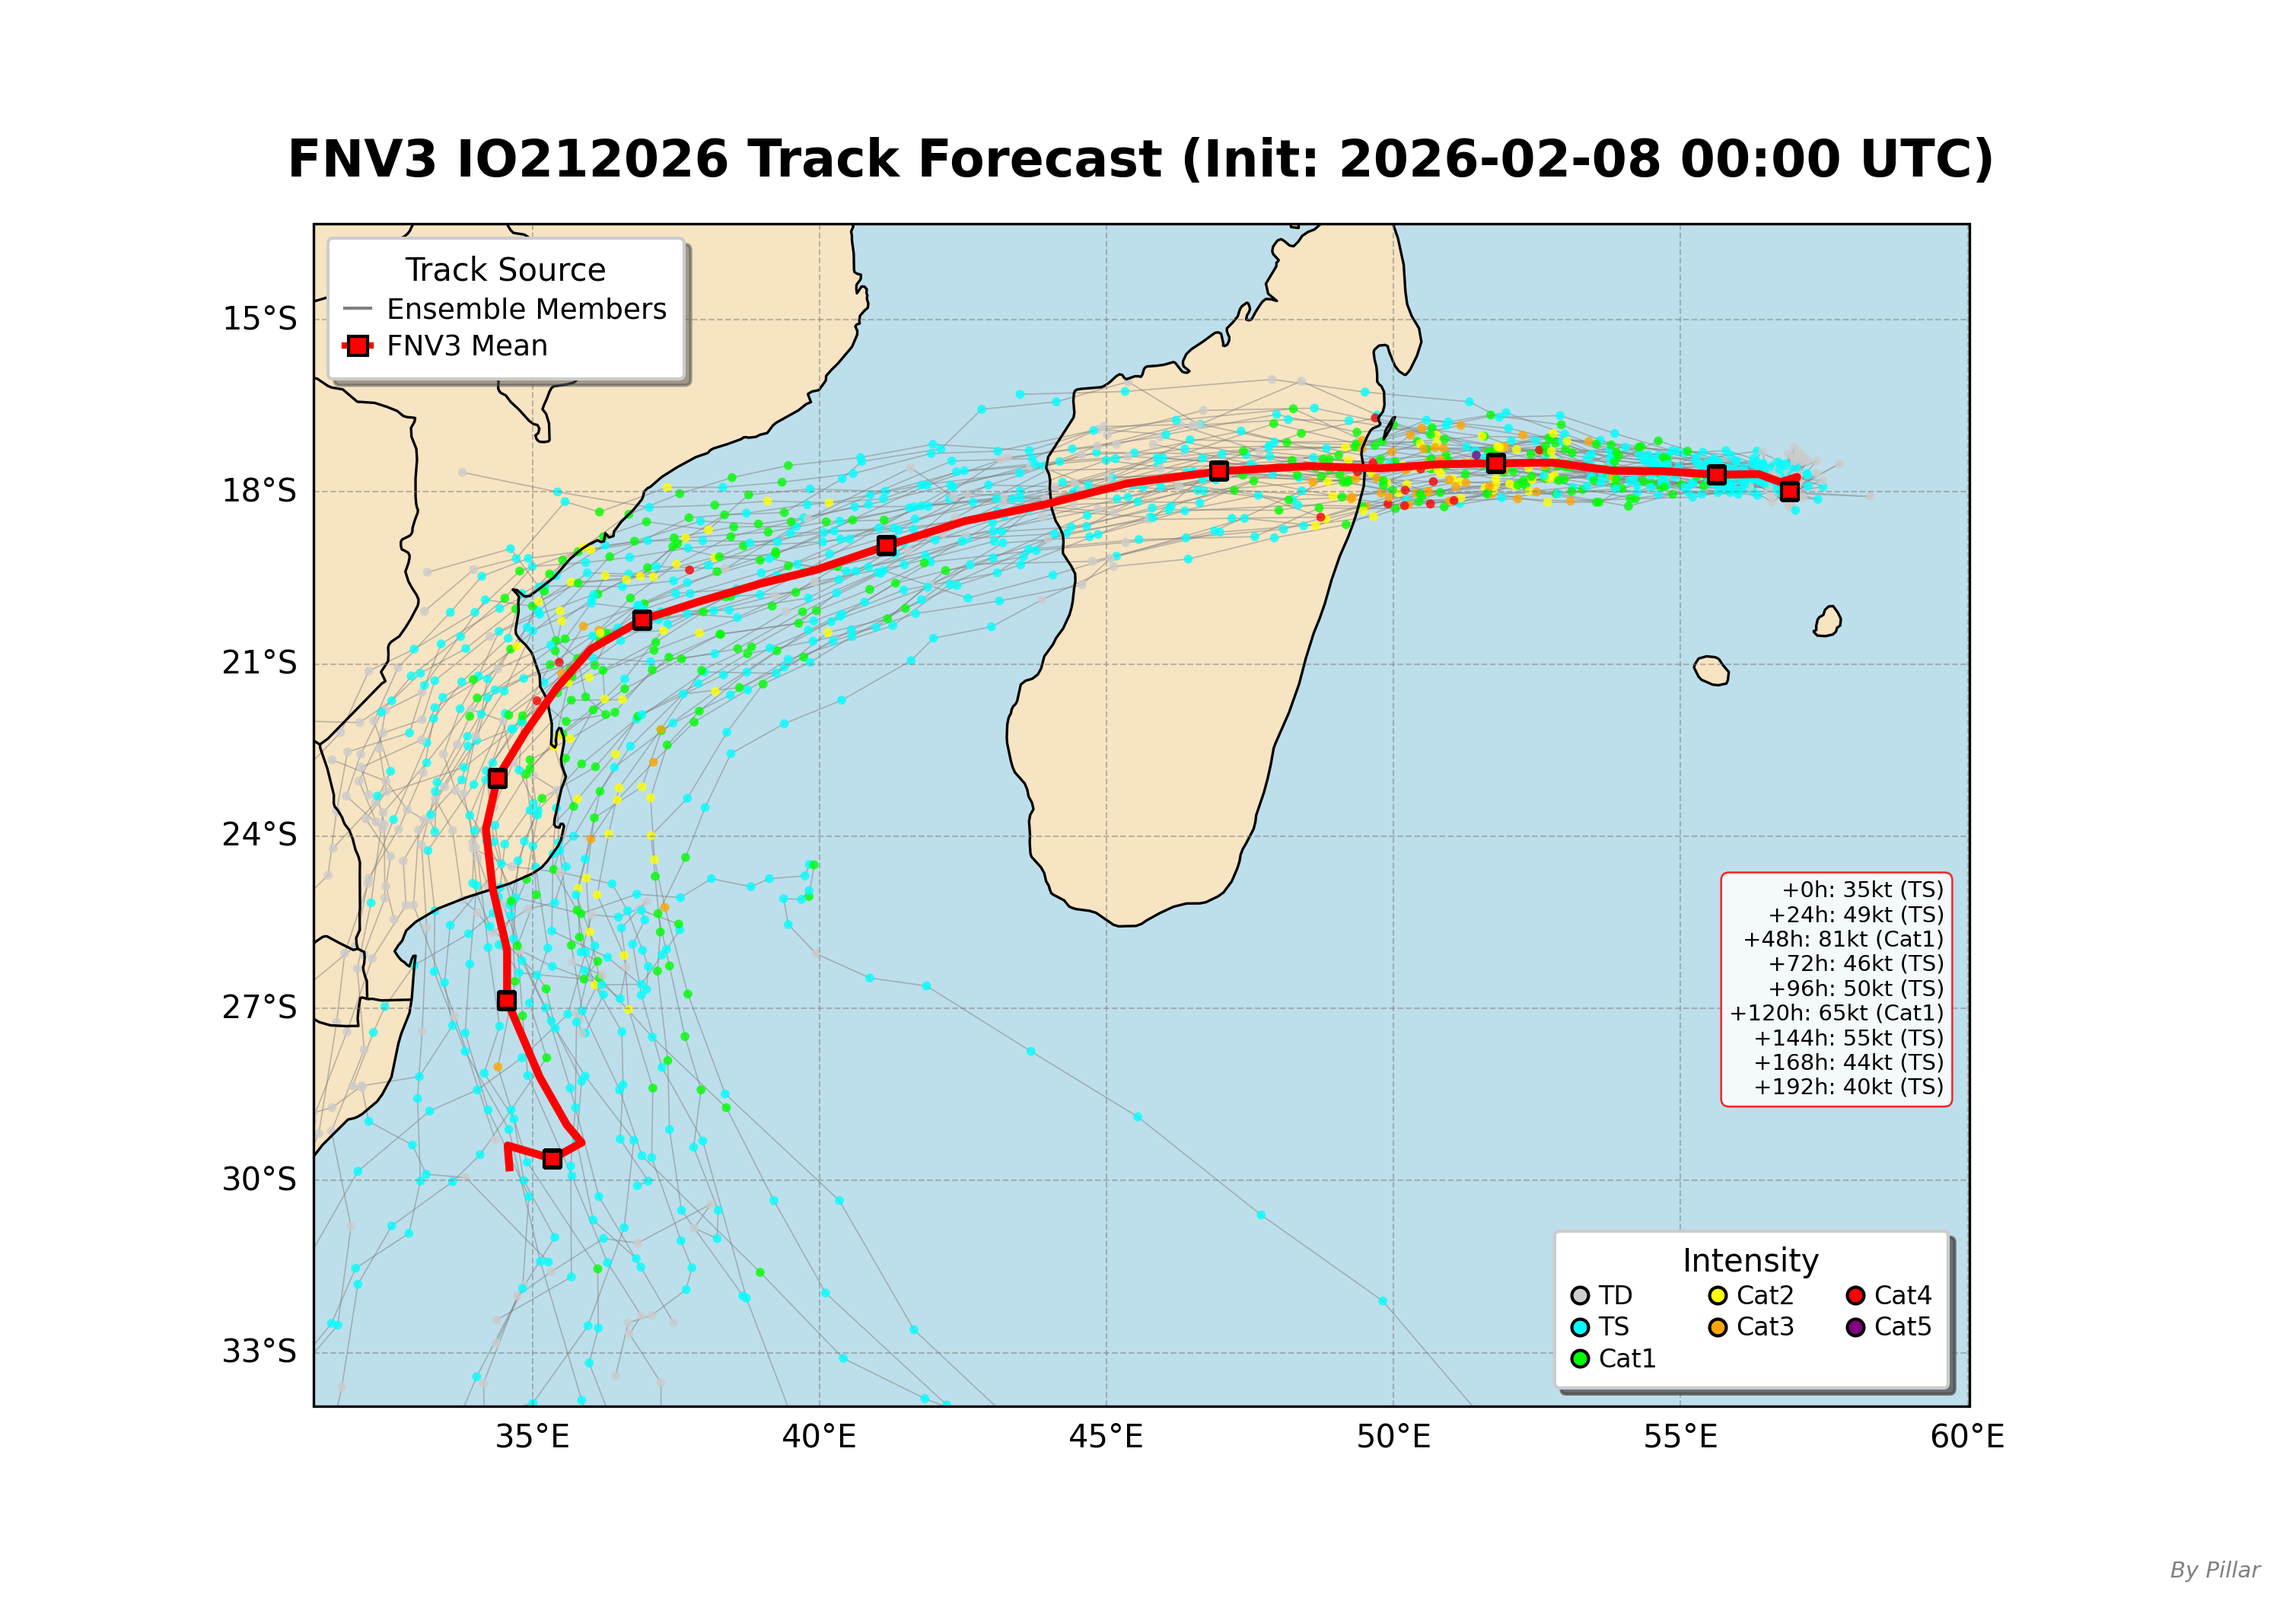
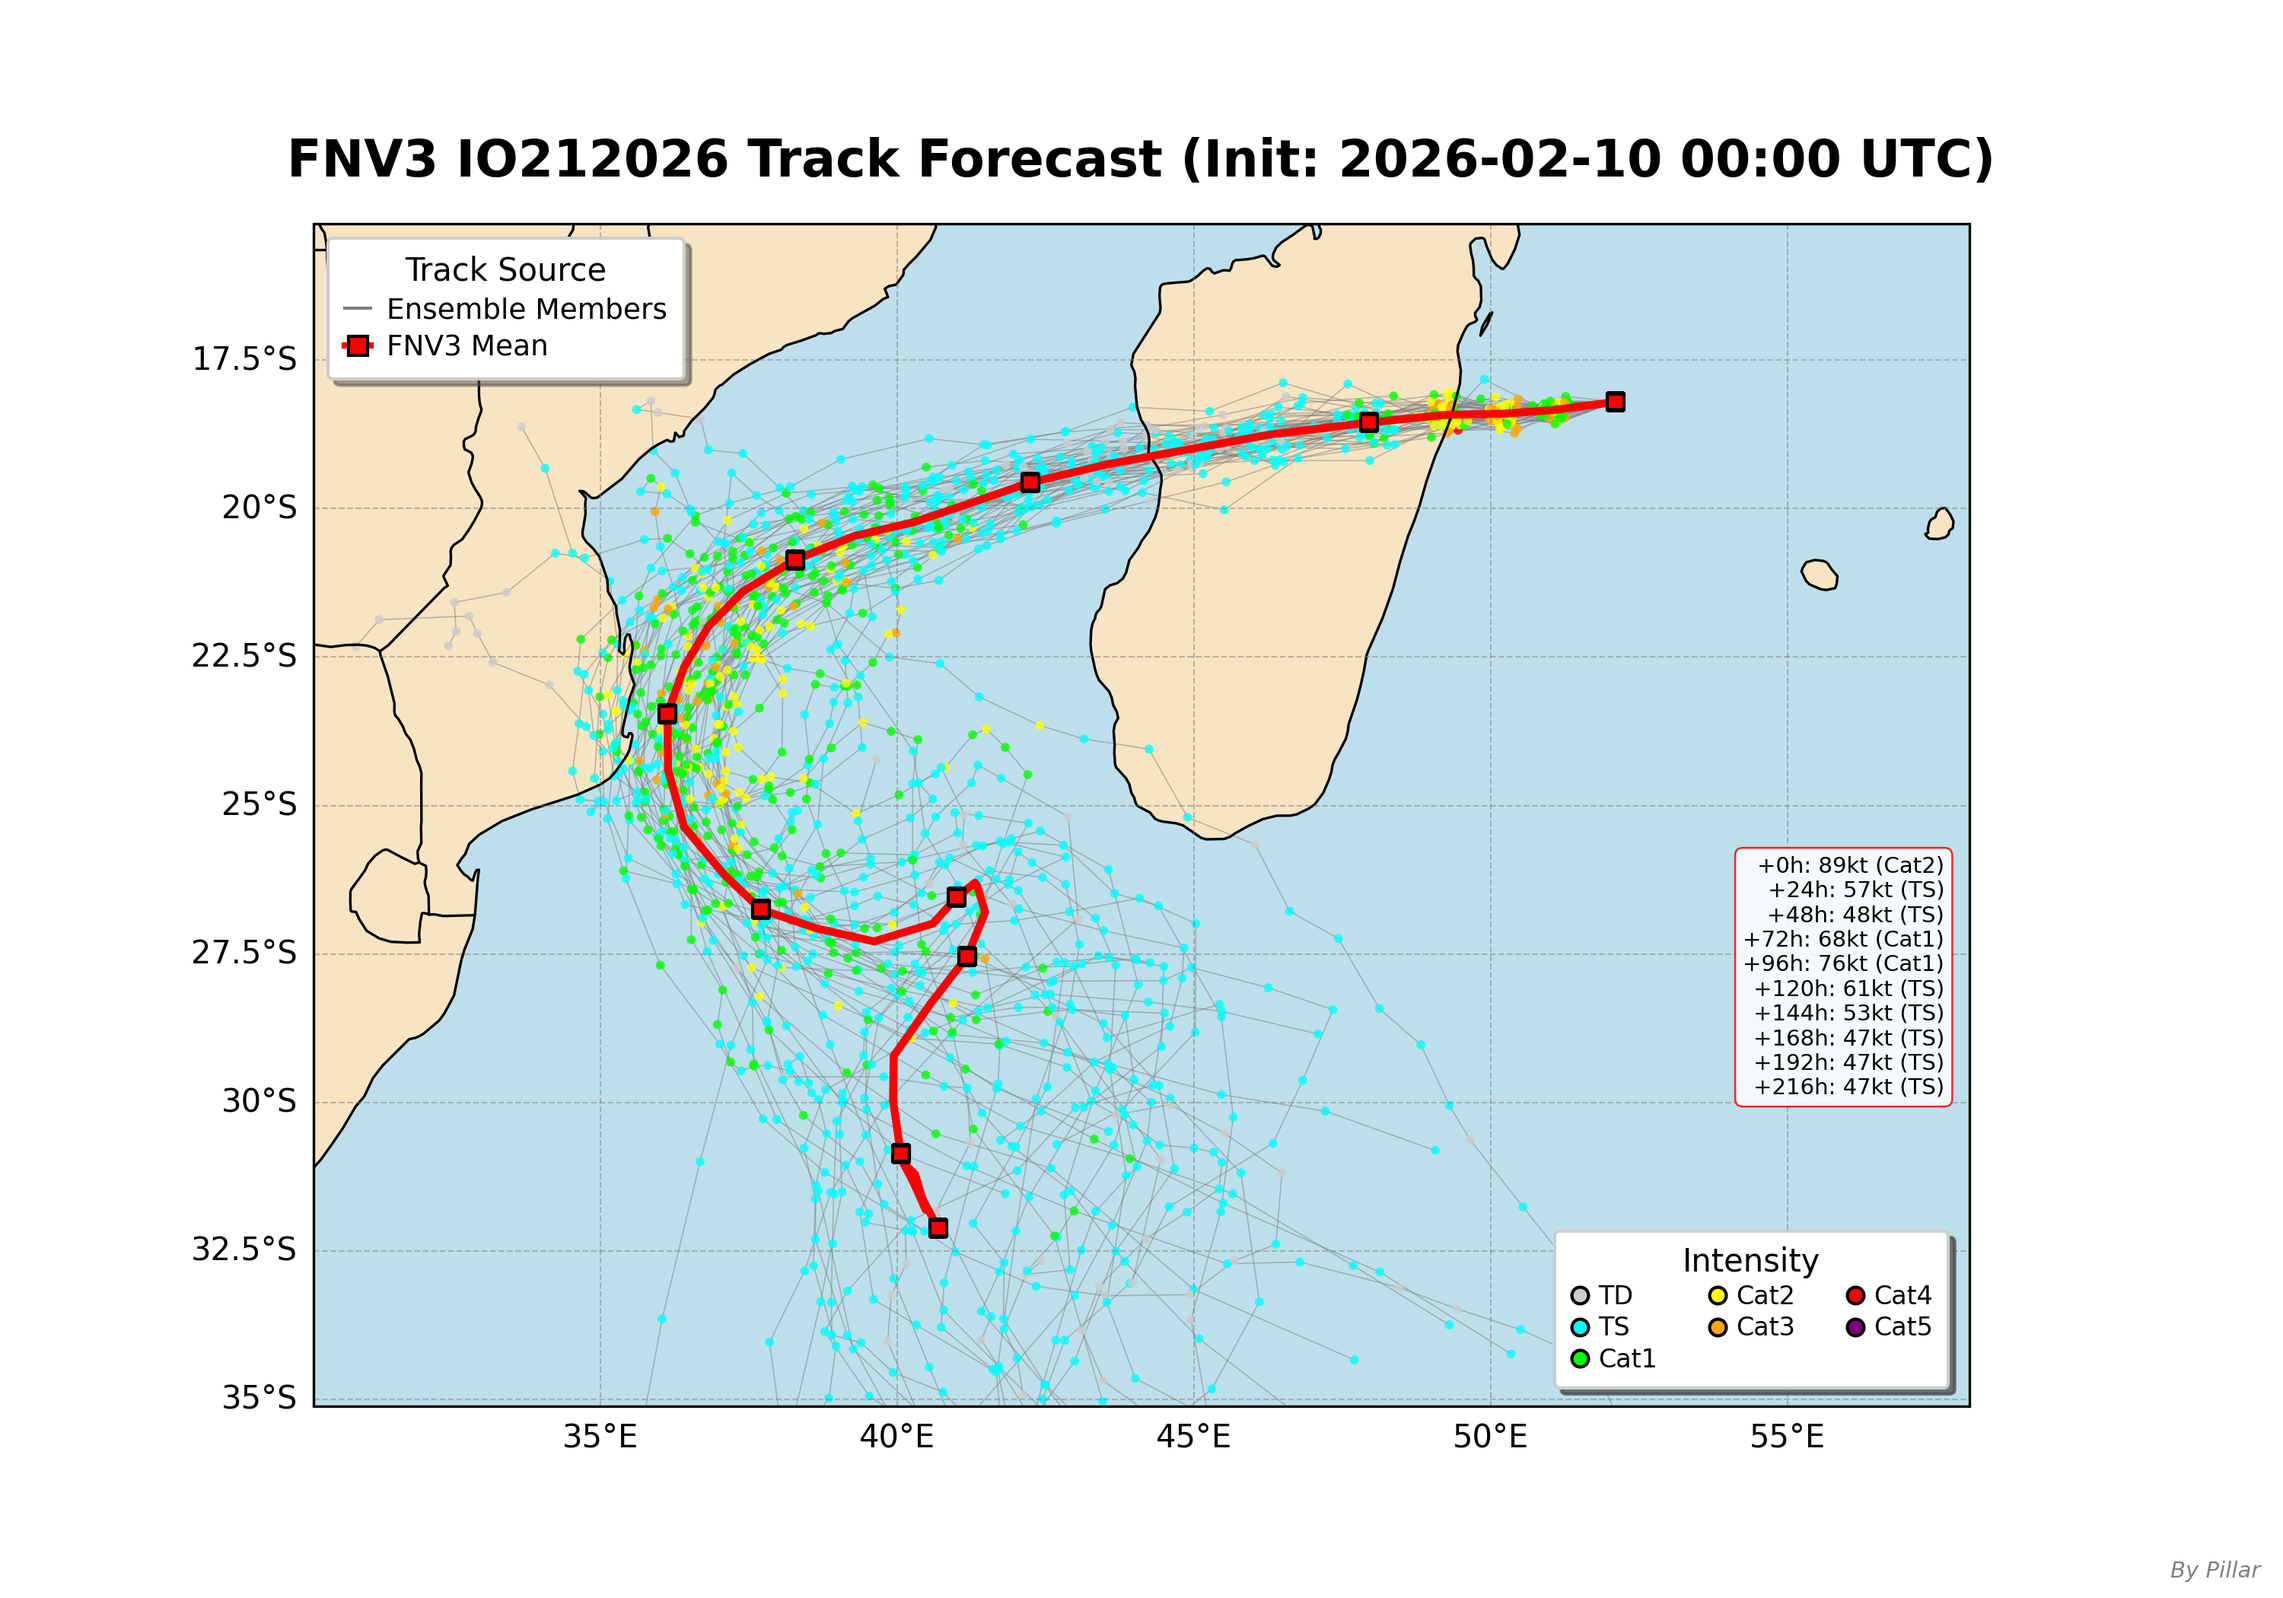
Add files via upload

diff --git a/index.html b/index.html
@@ -3,7 +3,7 @@
 <head>
     <meta charset="UTF-8">
     <meta name="viewport" content="width=device-width, initial-scale=1.0">
-    <title>Pillar's Tropical Cyclone Forecast | IO202026 / IO212026</title>
+    <title>Pillar's Tropical Cyclone Forecast | IO212026</title>
     <style>
         * {
             margin: 0;
@@ -689,7 +689,7 @@
                     <div class="subtitle">Real-time FNV3 Ensemble Forecast System</div>
                 </div>
                 <div class="update-badge">
-                    ⏰ Updated: 2026-02-08 16:57:25
+                    ⏰ Updated: 2026-02-10 16:13:41
                 </div>
             </div>
         </header>
@@ -700,132 +700,7 @@
             <div class="storm-card">
                 <div class="storm-header">
                     <div class="storm-title">
-                        MITCHELL <span class="alert-badge">LIVE</span>
-                    </div>
-                    <div class="storm-id">IO202026</div>
-                </div>
-
-                <div class="info-grid">
-                    <div class="info-item">
-                        <div class="info-label">🛰 Current Time</div>
-                        <div class="info-value">080600 Z</div>
-                    </div>
-                    <div class="info-item">
-                        <div class="info-label">📍 Current Position</div>
-                        <div class="info-value">21.6°S, 114.4°E</div>
-                    </div>
-                    <div class="info-item">
-                        <div class="info-label">💨 Maximum Wind</div>
-                        <div class="info-value">70 kt</div>
-                    </div>
-                    <div class="info-item">
-                        <div class="info-label">🔥 Intensity (Saffir-Simpson)</div>
-                        <div class="info-value intensity-value">
-                            <span class="intensity-dot" style="background: #00FF00;"></span>
-                            <span class="legend-label">Cat1</span>
-                        </div>
-                    </div>
-                    <div class="info-item mobile-wind-radii" style="grid-column: span 2;">
-                        <div class="info-label">🌀 34 kt Wind Radii</div>
-                        <div class="info-value">NE: 080 / SE: 080 / SW: 080 / NW: 070 nm</div>
-                    </div>
-                    <div class="info-item mobile-wind-radii" style="grid-column: span 2;">
-                        <div class="info-label">🌀 50 kt Wind Radii</div>
-                        <div class="info-value">NE: 045 / SE: 045 / SW: 045 / NW: 045 nm</div>
-                    </div>
-                    <div class="info-item mobile-wind-radii" style="grid-column: span 2;">
-                        <div class="info-label">🌀 64 kt Wind Radii</div>
-                        <div class="info-value">NE: 030 / SE: 030 / SW: 030 / NW: 030 nm</div>
-                    </div>
-                </div>
-
-                <!-- Legend -->
-                <div class="legend">
-                    <div class="legend-title">🎨 Intensity Scale (Saffir-Simpson)</div>
-                    <div class="legend-items">
-                        <div class="legend-item">
-                            <div class="legend-color" style="background: #CCCCCC;"></div>
-                            <div class="legend-label">TD (< 34 kt)</div>
-                        </div>
-                        <div class="legend-item">
-                            <div class="legend-color" style="background: #00FFFF;"></div>
-                            <div class="legend-label">TS (34-63 kt)</div>
-                        </div>
-                        <div class="legend-item">
-                            <div class="legend-color" style="background: #00FF00;"></div>
-                            <div class="legend-label">Cat 1 (64-82 kt)</div>
-                        </div>
-                        <div class="legend-item">
-                            <div class="legend-color" style="background: #FFFF00;"></div>
-                            <div class="legend-label">Cat 2 (83-95 kt)</div>
-                        </div>
-                        <div class="legend-item">
-                            <div class="legend-color" style="background: #FFA500;"></div>
-                            <div class="legend-label">Cat 3 (96-112 kt)</div>
-                        </div>
-                        <div class="legend-item">
-                            <div class="legend-color" style="background: #FF0000;"></div>
-                            <div class="legend-label">Cat 4 (113-136 kt)</div>
-                        </div>
-                        <div class="legend-item">
-                            <div class="legend-color" style="background: #800080;"></div>
-                            <div class="legend-label">Cat 5 (≥ 137 kt)</div>
-                        </div>
-                    </div>
-                </div>
-            </div>
-
-            
-            <!-- Animation Player -->
-            <div class="animation-container">
-                <div class="animation-title">🎬 Track Evolution Animation</div>
-                <div class="animation-player">
-                    <img id="animation-frame-IO202026" 
-                         src="animation_frames_IO202026/frame_0000.png" 
-                         alt="Animation" 
-                         class="animation-frame"
-                         data-frames-dir="animation_frames_IO202026">
-                    <div class="player-controls">
-                        <button class="control-btn" onclick="playAnimation('IO202026')">▶ Play</button>
-                        <button class="control-btn" onclick="pauseAnimation('IO202026')">⏸ Pause</button>
-                        <button class="control-btn" onclick="resetAnimation('IO202026')">⟲ Reset</button>
-                        <div class="progress-bar-container">
-                            <input type="range" id="progress-IO202026" class="progress-slider" min="0" max="12" value="0" 
-                                   oninput="seekFrame('IO202026', this.value)">
-                            <span id="frame-counter-IO202026" class="frame-counter">1/13</span>
-                        </div>
-                    </div>
-                </div>
-                <div style="margin-top: 10px; color: #666; font-size: 0.9em;">
-                    <strong>Controls:</strong> Play/Pause the animation or use the slider to manually seek through frames.
-                </div>
-            </div>
-
-            <!-- Map Container -->
-            <div class="map-container">
-                <div class="map-title">📍 FNV3 Track Forecast Map</div>
-                <img src="IO202026_Forecast_Map.png" alt="IO202026 Forecast Map" class="map-image">
-                <div style="margin-top: 15px; color: #666; font-size: 0.95em; line-height: 1.6;">
-                    <strong>Note:</strong> Gray lines represent individual ensemble members (spaghetti plot). 
-                    Red line shows the ensemble mean track with 24-hour position markers. 
-                    Colored dots indicate intensity at 6-hour intervals.
-                </div>
-            </div>
-
-            <!-- JTWC Forecast Map Container -->
-            <div class="map-container jtwc-forecast-map" style="margin-top: 30px;">
-                <div class="map-title">🌐 JTWC Official Forecast</div>
-                <img src="jtwc_IO202026.gif" alt="JTWC Forecast" class="map-image" onerror="this.parentElement.style.display='none'">
-                <div class="map-description" style="margin-top: 15px; color: #666; font-size: 0.95em; line-height: 1.6;">
-                    <strong>Source:</strong> Joint Typhoon Warning Center (JTWC) - U.S. Navy & Air Force
-                </div>
-            </div>
-        
-
-            <div class="storm-card">
-                <div class="storm-header">
-                    <div class="storm-title">
-                        TWENTYONE <span class="alert-badge">LIVE</span>
+                        GEZANI <span class="alert-badge">LIVE</span>
                     </div>
                     <div class="storm-id">IO212026</div>
                 </div>
@@ -833,34 +708,34 @@
                 <div class="info-grid">
                     <div class="info-item">
                         <div class="info-label">🛰 Current Time</div>
-                        <div class="info-value">080000 Z</div>
+                        <div class="info-value">100000 Z</div>
                     </div>
                     <div class="info-item">
                         <div class="info-label">📍 Current Position</div>
-                        <div class="info-value">18.0°S, 56.8°E</div>
+                        <div class="info-value">18.2°S, 51.6°E</div>
                     </div>
                     <div class="info-item">
                         <div class="info-label">💨 Maximum Wind</div>
-                        <div class="info-value">35 kt</div>
+                        <div class="info-value">90 kt</div>
                     </div>
                     <div class="info-item">
                         <div class="info-label">🔥 Intensity (Saffir-Simpson)</div>
                         <div class="info-value intensity-value">
-                            <span class="intensity-dot" style="background: #00FFFF;"></span>
-                            <span class="legend-label">TS</span>
+                            <span class="intensity-dot" style="background: #FFFF00;"></span>
+                            <span class="legend-label">Cat2</span>
                         </div>
                     </div>
                     <div class="info-item mobile-wind-radii" style="grid-column: span 2;">
                         <div class="info-label">🌀 34 kt Wind Radii</div>
-                        <div class="info-value">NE: 060 / SE: 050 / SW: 000 / NW: 050 nm</div>
+                        <div class="info-value">NE: 050 / SE: 070 / SW: 050 / NW: 050 nm</div>
                     </div>
                     <div class="info-item mobile-wind-radii" style="grid-column: span 2;">
                         <div class="info-label">🌀 50 kt Wind Radii</div>
-                        <div class="info-value">NE: 020 / SE: 020 / SW: 020 / NW: 020 nm</div>
+                        <div class="info-value">NE: 030 / SE: 030 / SW: 035 / NW: 035 nm</div>
                     </div>
                     <div class="info-item mobile-wind-radii" style="grid-column: span 2;">
                         <div class="info-label">🌀 64 kt Wind Radii</div>
-                        <div class="info-value">NE: 010 / SE: 015 / SW: 015 / NW: 015 nm</div>
+                        <div class="info-value">NE: 020 / SE: 020 / SW: 025 / NW: 025 nm</div>
                     </div>
                 </div>
 
